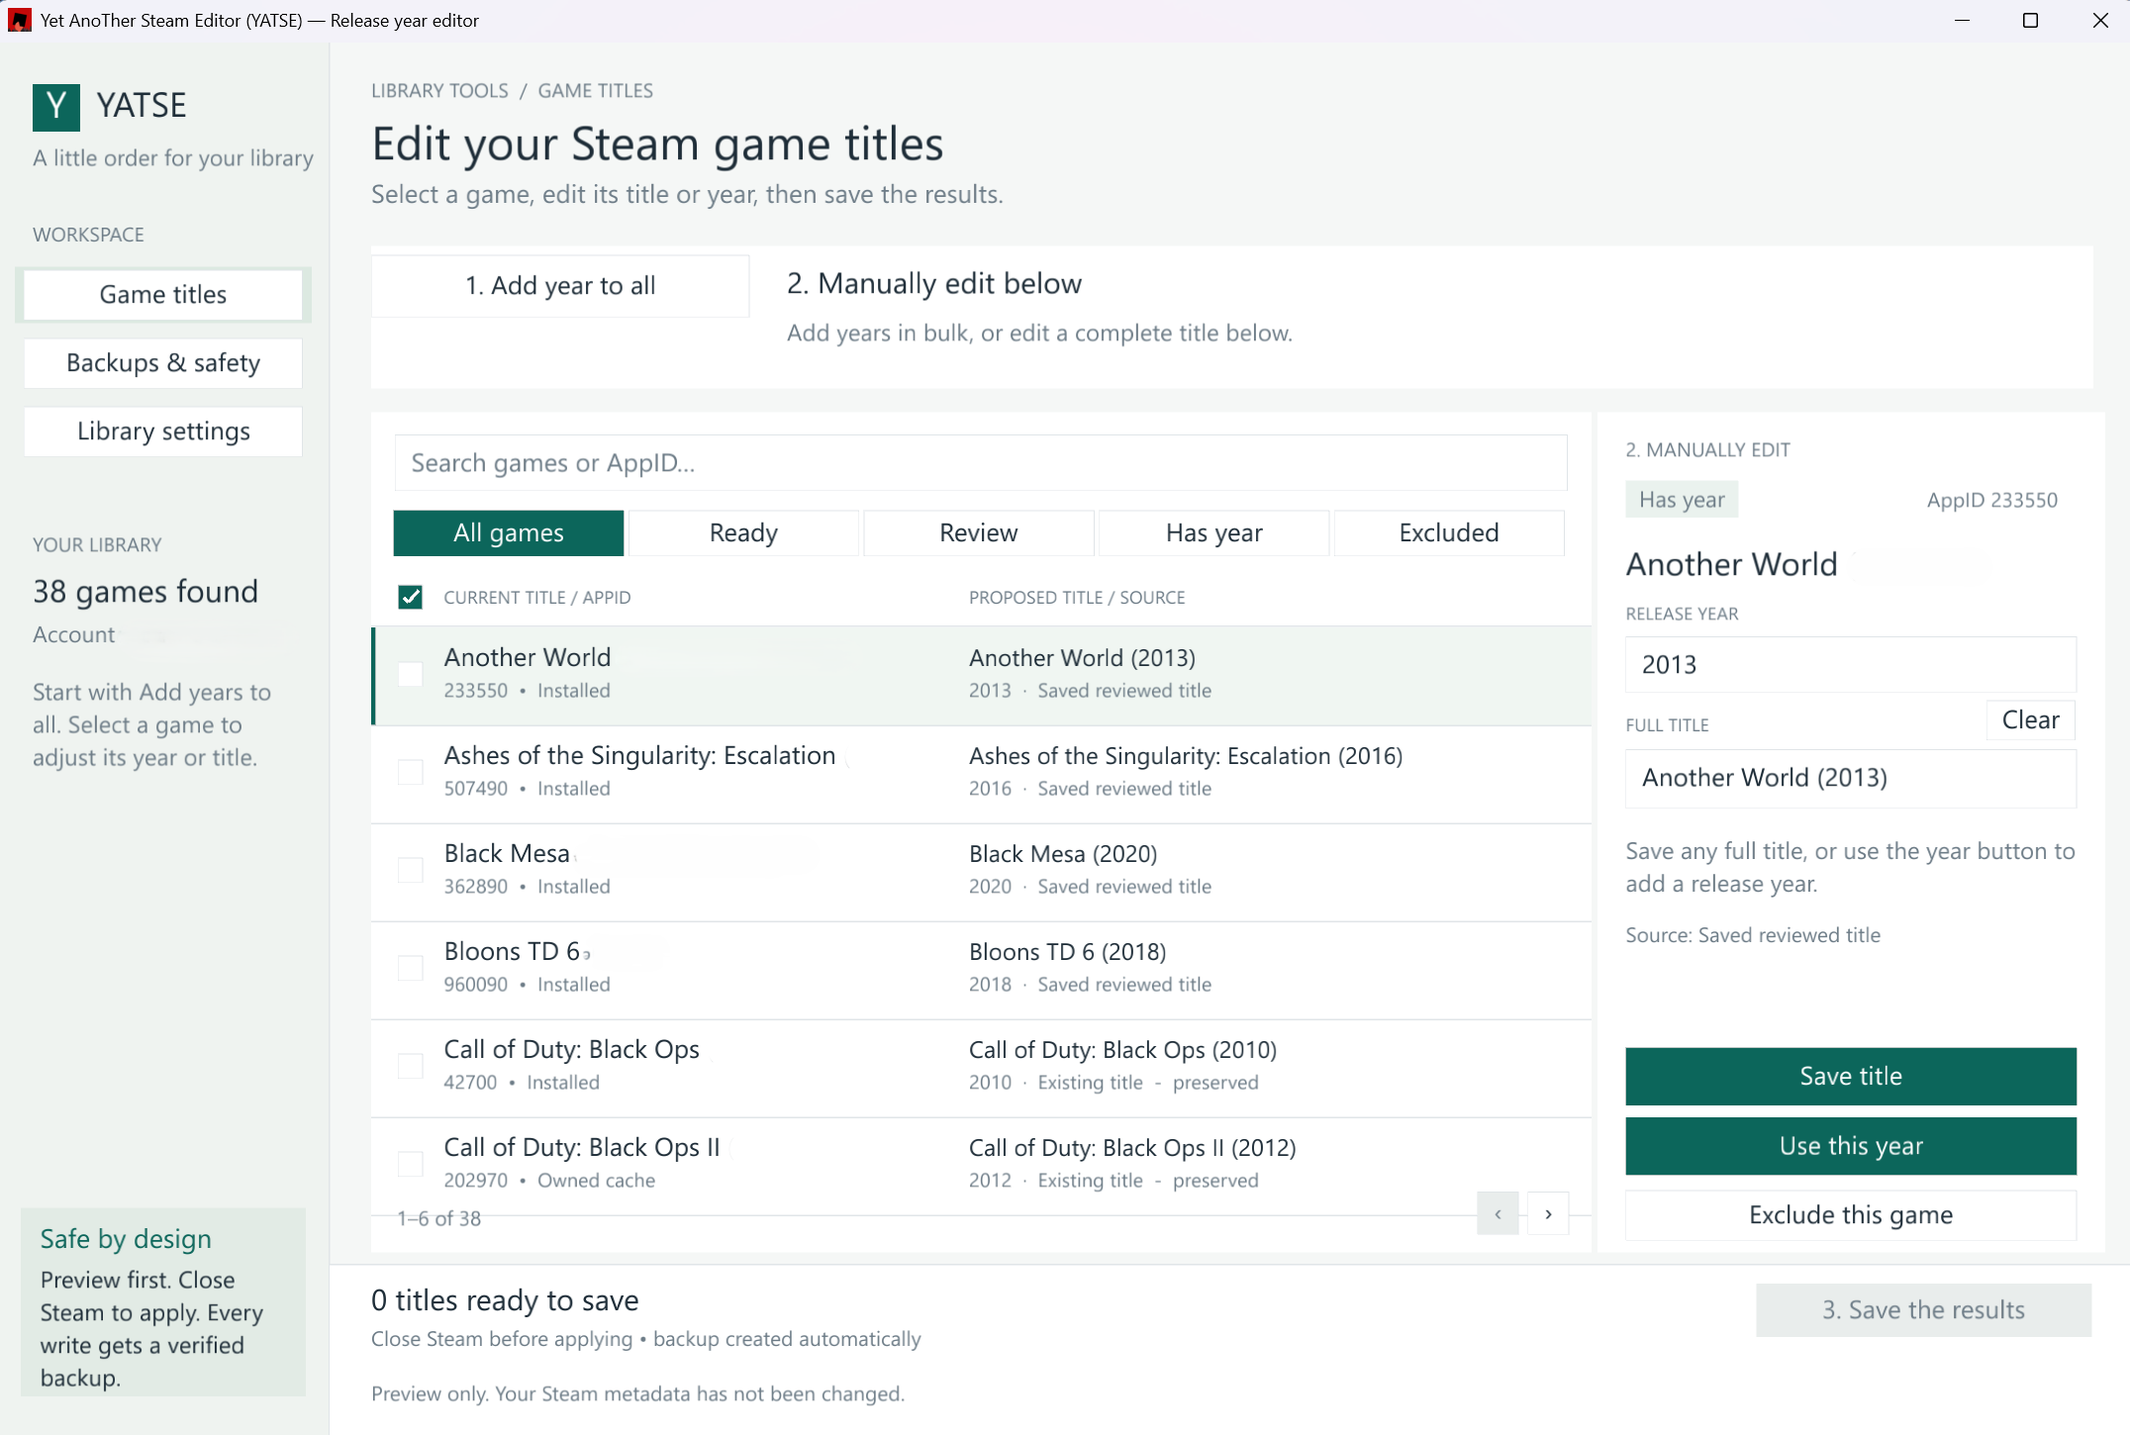
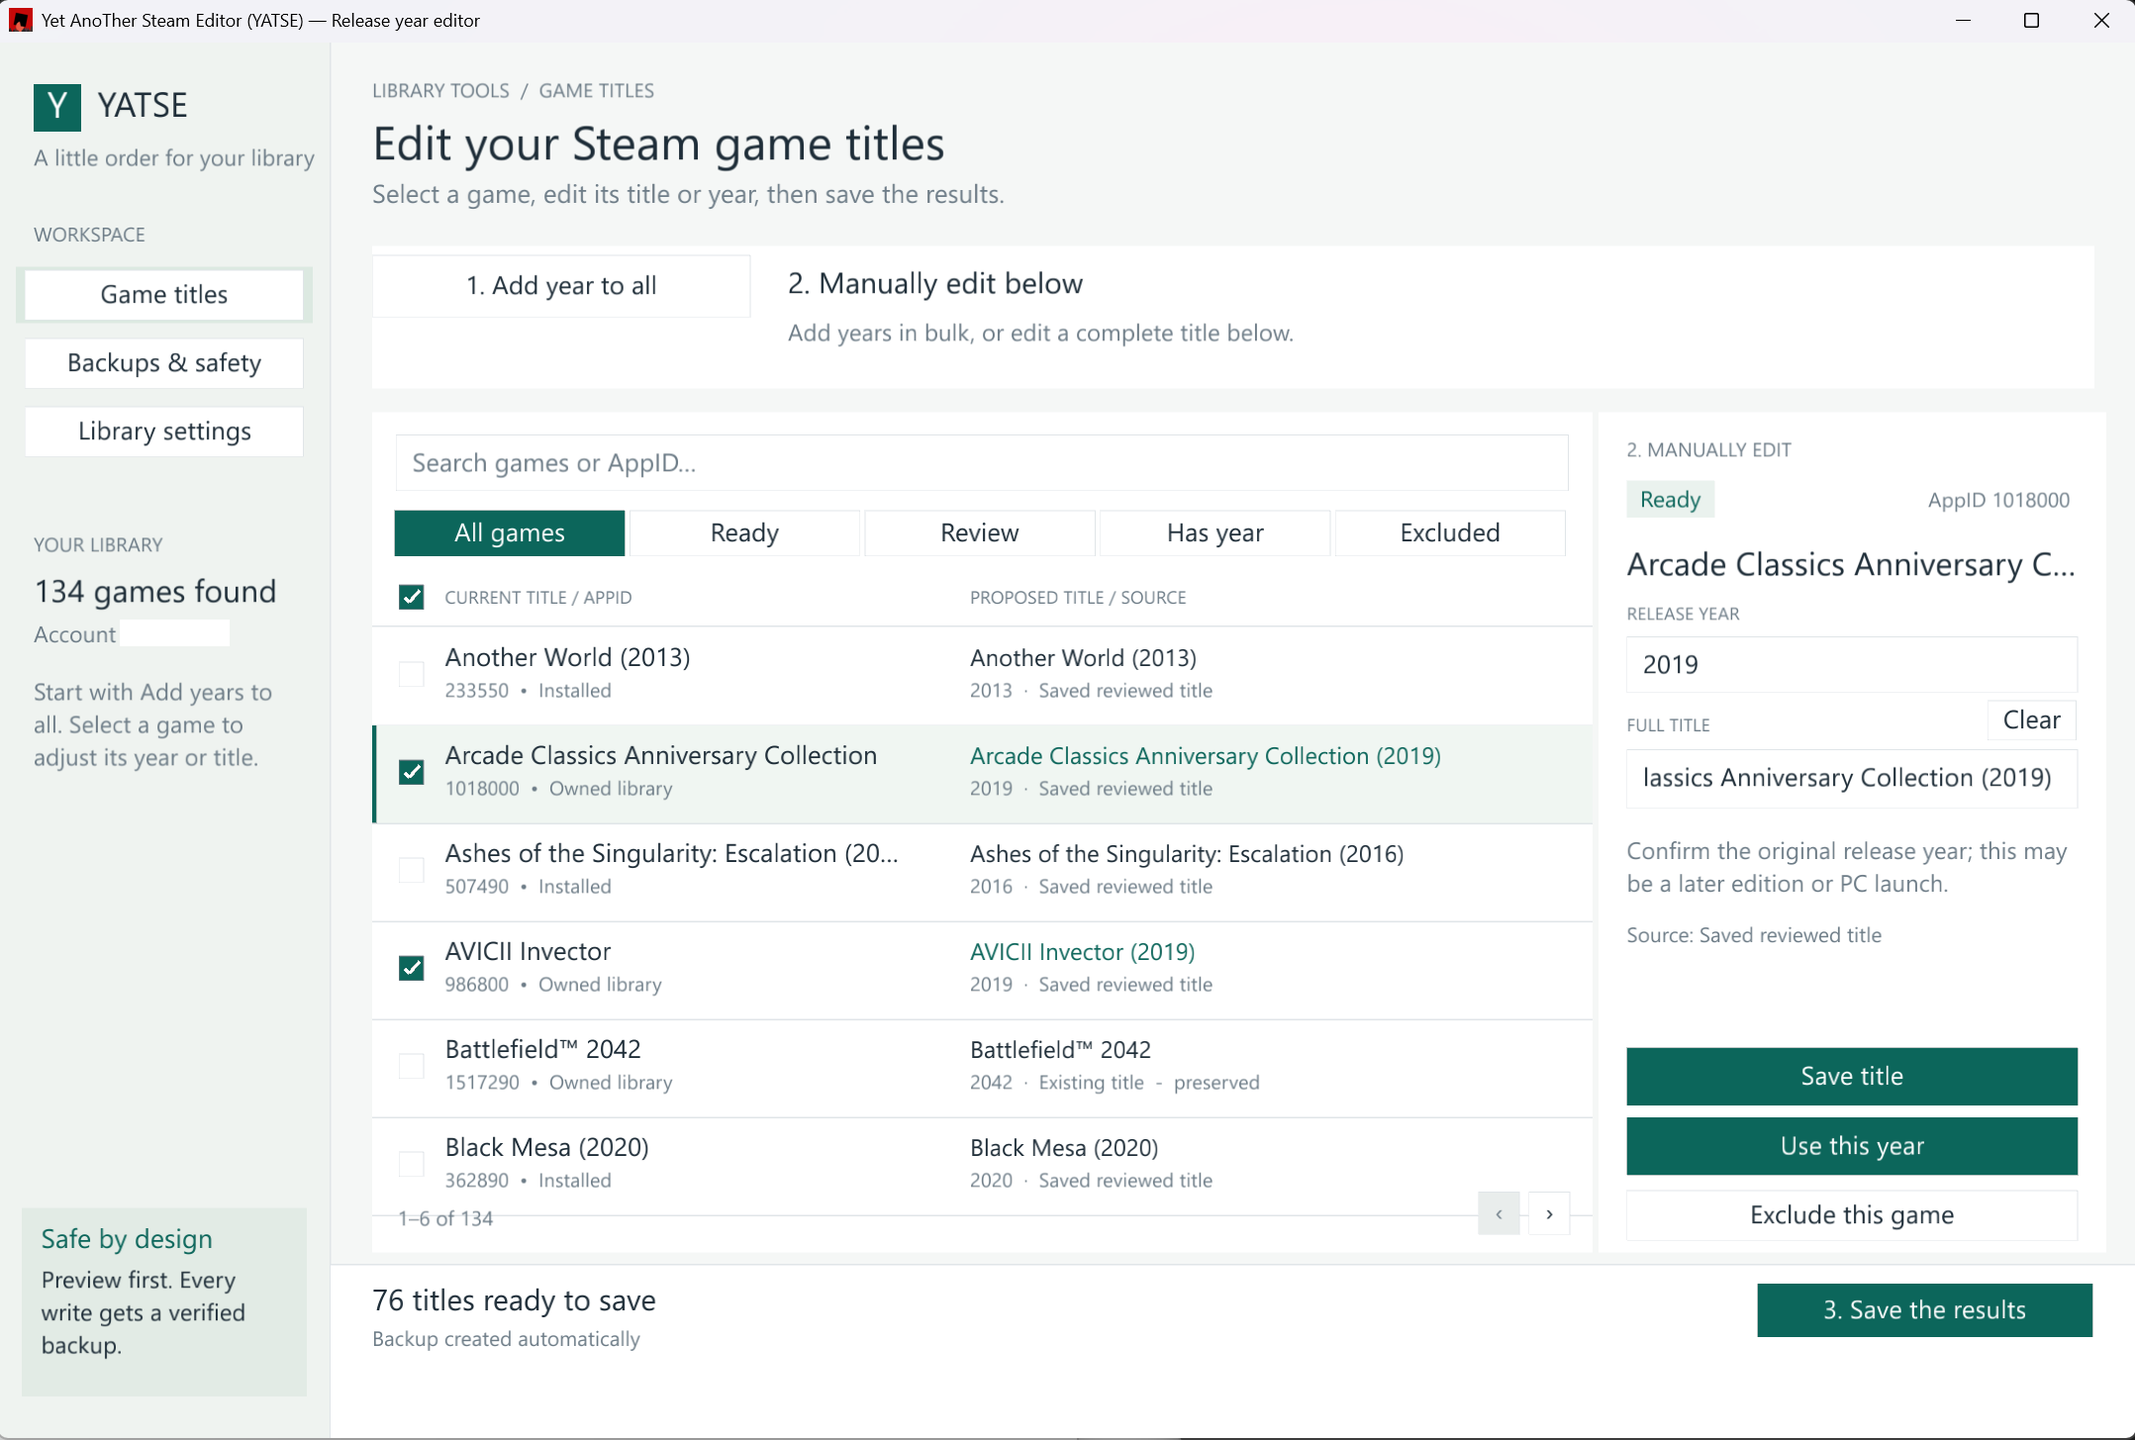
detect all owned steam games

diff --git a/src/steam_ownership.rs b/src/steam_ownership.rs
@@ -1,0 +1,103 @@
+//! Read-only ownership queries through the signed-in Steam client.
+//! ABI: ValveSoftware/Proton, steamworks_sdk_152/{isteamclient,isteamapps,isteamuser}.h.
+use std::{collections::BTreeSet, path::Path};
+
+#[cfg(all(windows, target_arch = "x86_64"))]
+pub fn query(root: &Path, account: &str, ids: &[u32]) -> Result<BTreeSet<u32>, String> {
+    use std::{collections::BTreeMap, ffi::c_void, os::windows::ffi::OsStrExt, sync::{Mutex, OnceLock}};
+    type Object = *mut c_void;
+    #[link(name = "kernel32")]
+    extern "system" {
+        fn LoadLibraryExW(path: *const u16, file: Object, flags: u32) -> Object;
+        fn GetProcAddress(module: Object, name: *const u8) -> Object;
+    }
+    // Steam interfaces are not thread safe. Keep DLLs loaded for the process
+    // lifetime because the client owns background threads and thread-local data.
+    static MODULES: OnceLock<Mutex<BTreeMap<std::path::PathBuf, usize>>> = OnceLock::new();
+    let mut modules = MODULES.get_or_init(|| Mutex::new(BTreeMap::new()))
+        .lock().map_err(|_| "Steam ownership reader stopped")?;
+    let path = root.join("steamclient64.dll").canonicalize()
+        .map_err(|_| "Steam client DLL not found")?;
+    let module = if let Some(module) = modules.get(&path) {
+        *module as Object
+    } else {
+        let wide: Vec<u16> = path.as_os_str().encode_wide().chain(Some(0)).collect();
+        // Resolve dependencies only beside Steam's DLL and in default DLL directories.
+        let module = unsafe { LoadLibraryExW(wide.as_ptr(), std::ptr::null_mut(), 0x1100) };
+        if module.is_null() { return Err("Could not load Steam's ownership interface".into()); }
+        modules.insert(path, module as usize);
+        module
+    };
+    // These slots are fixed by the explicitly requested interface versions.
+    unsafe fn slot(object: Object, index: usize) -> Object {
+        *(*(object as *const *const Object)).add(index)
+    }
+    struct Session { client: Object, pipe: i32, user: i32 }
+    impl Drop for Session {
+        fn drop(&mut self) {
+            unsafe {
+                if self.user != 0 {
+                    let release: unsafe extern "C" fn(Object, i32, i32) = std::mem::transmute(slot(self.client, 4));
+                    release(self.client, self.pipe, self.user);
+                }
+                let release: unsafe extern "C" fn(Object, i32) -> bool = std::mem::transmute(slot(self.client, 1));
+                release(self.client, self.pipe);
+            }
+        }
+    }
+    unsafe {
+        let export = GetProcAddress(module, b"CreateInterface\0".as_ptr());
+        if export.is_null() { return Err("Steam interface factory unavailable".into()); }
+        let factory: unsafe extern "C" fn(*const u8, Object) -> Object = std::mem::transmute(export);
+        let client = factory(b"SteamClient020\0".as_ptr(), std::ptr::null_mut());
+        if client.is_null() { return Err("SteamClient020 is unavailable".into()); }
+        let create: unsafe extern "C" fn(Object) -> i32 = std::mem::transmute(slot(client, 0));
+        let pipe = create(client);
+        if pipe == 0 { return Err("Open Steam and sign in to refresh ownership".into()); }
+        let mut session = Session { client, pipe, user: 0 };
+        let connect: unsafe extern "C" fn(Object, i32) -> i32 = std::mem::transmute(slot(client, 2));
+        session.user = connect(client, pipe);
+        if session.user == 0 { return Err("Steam has no signed-in user".into()); }
+        type Interface = unsafe extern "C" fn(Object, i32, i32, *const u8) -> Object;
+        let get_user: Interface = std::mem::transmute(slot(client, 5));
+        let user = get_user(client, session.user, pipe, b"SteamUser021\0".as_ptr());
+        if user.is_null() { return Err("Steam user interface unavailable".into()); }
+        let logged_on: unsafe extern "C" fn(Object) -> bool = std::mem::transmute(slot(user, 1));
+        if !logged_on(user) { return Err("Sign in to Steam before refreshing ownership".into()); }
+        // MSVC returns the CSteamID class through a hidden output pointer,
+        // rather than as a plain u64. Check account identity before any queries.
+        let get_id: unsafe extern "C" fn(Object, *mut u64) -> Object = std::mem::transmute(slot(user, 2));
+        let mut steam_id = 0u64;
+        get_id(user, &mut steam_id);
+        validate_account(account, steam_id)?;
+        let get_apps: Interface = std::mem::transmute(slot(client, 15));
+        let apps = get_apps(client, session.user, pipe, b"STEAMAPPS_INTERFACE_VERSION008\0".as_ptr());
+        if apps.is_null() { return Err("Steam apps interface unavailable".into()); }
+        let subscribed: unsafe extern "C" fn(Object, u32) -> bool = std::mem::transmute(slot(apps, 6));
+        Ok(ids.iter().copied().filter(|id| subscribed(apps, *id)).collect())
+    }
+}
+
+fn validate_account(account: &str, steam_id: u64) -> Result<(), String> {
+    if account.parse::<u32>().ok() != Some(steam_id as u32) || steam_id == 0 {
+        return Err("Steam is signed in to a different account; ownership was not imported".into());
+    }
+    Ok(())
+}
+
+#[cfg(not(all(windows, target_arch = "x86_64")))]
+pub fn query(_: &Path, _: &str, _: &[u32]) -> Result<BTreeSet<u32>, String> {
+    Err("Live Steam ownership requires 64-bit Windows".into())
+}
+
+#[cfg(test)]
+mod tests {
+    use super::*;
+    #[test]
+    fn ownership_must_belong_to_selected_account() {
+        assert!(validate_account("123", 76561197960265728 + 123).is_ok());
+        assert!(validate_account("456", 76561197960265728 + 123).is_err());
+        assert!(validate_account("0", 0).is_err());
+        assert!(validate_account("invalid", 76561197960265728 + 123).is_err());
+    }
+}

diff --git a/src/library.rs b/src/library.rs
@@ -261,14 +261,38 @@ pub fn discover_progress(root: &Path, account: &str, dir: &Path, progress: impl 
             }
         }
     }
-    let online: BTreeMap<u32, String> = fs::read(dir.join(format!("owned-{account}.json")))
+    let snapshot: Option<BTreeMap<u32, String>> = fs::read(dir.join(format!("owned-{account}.json")))
         .ok()
-        .and_then(|b| serde_json::from_slice(&b).ok())
-        .unwrap_or_default();
-    owned.extend(online.keys().copied());
-    let ids: BTreeSet<u32> = owned.union(&installed).copied().collect();
+        .and_then(|b| serde_json::from_slice(&b).ok());
+    let mut verified = snapshot.is_some();
+    let mut online = snapshot.unwrap_or_default();
+    if verified { owned = online.keys().copied().collect(); }
     progress(60, "Reading Steam title database");
     let db = Database::read(&root.join("appcache/appinfo.vdf"))?;
+    let mut ownership_warning = String::new();
+    if root.join("steamclient64.dll").is_file() && crate::steam_guard::check().unwrap_or(false) {
+        progress(70, "Checking ownership with signed-in Steam");
+        let candidates: BTreeSet<u32> = db.entries.iter().map(|e| e.id)
+            .chain(owned.iter().copied()).chain(installed.iter().copied()).collect();
+        match crate::steam_ownership::query(root, &account, &candidates.into_iter().collect::<Vec<_>>()) {
+            Ok(current) => {
+                online = current.iter().map(|id| {
+                    let name = db.entries.iter().find(|e| e.id == *id)
+                        .map(|e| e.root.text(&["appinfo", "common", "name"]))
+                        .unwrap_or_else(|| online.get(id).cloned().unwrap_or_default());
+                    (*id, name)
+                }).collect();
+                fs::create_dir_all(dir).map_err(|e| e.to_string())?;
+                write_json(&dir.join(format!("owned-{account}.json")), &online)?;
+                owned = current;
+                verified = true;
+            }
+            Err(e) => ownership_warning = format!(" Ownership refresh failed: {e}."),
+        }
+    }
+    // Shared metadata supplies titles, never ownership. Verified account
+    // records supersede stale caches and installed leftovers.
+    let ids: BTreeSet<u32> = if verified { owned.clone() } else { owned.union(&installed).copied().collect() };
     progress(85, "Preparing titles and saved edits");
     let saved = state(dir);
     let mut rows = vec![];
@@ -280,7 +304,8 @@ pub fn discover_progress(root: &Path, account: &str, dir: &Path, progress: impl 
         let typ = entry
             .map(|e| e.root.text(&["appinfo", "common", "type"]))
             .unwrap_or_default();
-        if !typ.is_empty() && !typ.eq_ignore_ascii_case("game") {
+        if (entry.is_some() && !typ.eq_ignore_ascii_case("game"))
+            || (entry.is_none() && online.get(&id).is_none_or(|name| name.is_empty())) {
             continue;
         }
         let old = if name.is_empty() {
@@ -357,7 +382,12 @@ pub fn discover_progress(root: &Path, account: &str, dir: &Path, progress: impl 
     }
     rows.sort_by_key(|r| r.old.to_lowercase());
     progress(100, "Library ready");
-    Ok(Library{path:root.into(),account,rows,fingerprint:hash(&db.raw),coverage:format!("{} cached owned AppIDs + {} installed AppIDs. Uncached purchases may be absent; sign in and let Steam refresh your library.",owned.len(),installed.len())})
+    let coverage = if verified {
+        format!("{} games from verified account ownership. Open Steam before launching Yatse to refresh.{}", rows.len(), ownership_warning)
+    } else {
+        format!("{} games from incomplete local records. Open Steam, sign in, then restart Yatse to include missing purchases.{}", rows.len(), ownership_warning)
+    };
+    Ok(Library{path:root.into(),account,rows,fingerprint:hash(&db.raw),coverage})
 }
 pub fn classify(s: &str) -> String {
     let s = s.to_lowercase();

diff --git a/src/main.rs b/src/main.rs
@@ -2,6 +2,7 @@
 
 mod disk_worker;
 mod steam_guard;
+mod steam_ownership;
 mod library;
 mod metadata;
 
@@ -268,7 +269,7 @@ fn main() {
         match discover(&root, &account, &data) {
             Ok(l) => {
                 println!("{}\n{} games", l.coverage, l.rows.len());
-                for r in l.rows.iter().take(12) {
+                for r in &l.rows {
                     println!(
                         "{} | {} | {:?} | {} | {}",
                         r.id,
@@ -394,7 +395,6 @@ async fn ui_main() {
         background_window();
     }
     let mut steam_monitor = steam_guard::Monitor::new();
-    wait_for_steam(&mut steam_monitor).await;
     let mut lib = load_library(root.clone(), account.clone(), data.clone()).await.unwrap_or_else(|e| Library {
         path: root.clone(),
         account: account.clone(),
@@ -402,7 +402,15 @@ async fn ui_main() {
         fingerprint: String::new(),
         coverage: e,
     });
-    let mut status = "Preview only. Your Steam metadata has not been changed.".to_string();
+    // Capture signed-in ownership before asking Steam to close for safe editing.
+    let steam_was_running = steam_guard::check().unwrap_or(true);
+    wait_for_steam(&mut steam_monitor).await;
+    if steam_was_running {
+        if let Ok(refreshed) = load_library(root.clone(), account.clone(), data.clone()).await {
+            lib = refreshed;
+        }
+    }
+    let mut status = String::new();
     let mut search = String::new();
     let mut tab = 0;
     let mut offset = 0usize;
@@ -576,7 +584,7 @@ async fn ui_main() {
         panel(16., h - 155., 192., 127., Color::from_hex(0xe2ebe5));
         txt("Safe by design", 29., h - 128., 18., TEAL);
         wrap(
-            "Preview first. Close Steam to apply. Every write gets a verified backup.",
+            "Preview first. Every write gets a verified backup.",
             29.,
             h - 101.,
             162.,
@@ -702,7 +710,7 @@ async fn ui_main() {
                 16.,
                 MUTED,
             );
-            wrap("Ownership comes from this account's local library cache, plus installed manifests across all library folders. Uncached or never-played purchases may be absent. Open Steam online and refresh your library before scanning. Multiple accounts are kept separate.",x+24.,451.,content-120.,18.,MUTED);
+            wrap("Open Steam and sign in before launching Yatse to refresh ownership automatically. Close Steam when prompted to edit safely. Verified ownership is saved for offline use; Web API verification below is optional.",x+24.,451.,content-120.,18.,MUTED);
             if button(
                 "Load this library",
                 Rect::new(x + 24., 540., 190., 43.),
@@ -903,7 +911,7 @@ async fn ui_main() {
                         if r.installed {
                             "Installed"
                         } else {
-                            "Owned cache"
+                            "Owned library"
                         }
                     ),
                     a,
@@ -1131,7 +1139,7 @@ async fn ui_main() {
             INK,
         );
         txt(
-            "Close Steam before applying • backup created automatically",
+            "Backup created automatically",
             x,
             h - 62.,
             14.,

diff --git a/src/tests.rs b/src/tests.rs
@@ -1,6 +1,47 @@
 use crate::{append_year, library::*, metadata::*, suffix_year};
 use serde_json::{json, Value};
 use std::{collections::BTreeMap, fs, path::Path};
+#[test]
+fn discovery_excludes_unowned_metadata_and_preserves_owned_edits() {
+    let root = std::env::temp_dir().join(format!(
+        "yatse-discovery-regression-{}", std::process::id()
+    ));
+    fs::create_dir_all(root.join("appcache")).unwrap();
+    fs::create_dir_all(root.join("userdata/123/config/librarycache")).unwrap();
+    fs::write(root.join("appcache/appinfo.vdf"), fixture_bytes()).unwrap();
+    let settings = root.join("settings");
+    fs::create_dir_all(&settings).unwrap();
+    // AppID 10 exists in appinfo but is not owned. AppID 20 is a verified
+    // purchase missing from the partial friends cache.
+    fs::write(settings.join("owned-123.json"), br#"{"20":"Same name"}"#).unwrap();
+    // Stale ownership and installed leftovers must not override verification.
+    fs::write(root.join("userdata/123/config/librarycache/10.json"), br#"[["friends",{"data":{"your_info":{"owned":true}}}]]"#).unwrap();
+    fs::create_dir_all(root.join("steamapps")).unwrap();
+    fs::write(root.join("steamapps/appmanifest_10.acf"), "").unwrap();
+    let lib = discover(&root, "123", &settings).unwrap();
+    assert_eq!(
+        lib.rows.iter().map(|r| r.id).collect::<Vec<_>>(),
+        vec![20]
+    );
+    let mut rows = lib.rows;
+    let row = rows.iter_mut().find(|r| r.id == 20).unwrap();
+    row.proposed = append_year(&row.old, 2009);
+    row.year = Some(2009);
+    row.approved = true;
+    row.selected = true;
+    assert!(row.ready());
+    save(&settings, &rows).unwrap();
+    let reloaded = discover(&root, "123", &settings).unwrap();
+    let row = reloaded.rows.iter().find(|r| r.id == 20).unwrap();
+    assert_eq!(row.old, "Same name");
+    assert_eq!(row.proposed, "Same name (2009)");
+    assert!(row.ready());
+    fs::write(settings.join("owned-123.json"), b"{}").unwrap();
+    assert!(discover(&root, "123", &settings).unwrap().rows.is_empty());
+    fs::remove_file(settings.join("owned-123.json")).unwrap();
+    assert_eq!(discover(&root, "123", &settings).unwrap().rows[0].id, 10);
+    fs::remove_dir_all(root).unwrap();
+}
 pub fn run(root: &Path, dir: &Path) -> Value {
     let mut steps = vec![];
     let mut check = |step: &str, passed: bool, detail: String| {

diff --git a/README.md b/README.md
@@ -31,6 +31,11 @@ Once the titles are updated, your Steam library becomes easier to browse. Releas
 
 ![Steam library after using YATSE](assets/steam_library_after_yatse.png)
 
+
+Yatse comes with Steam running detection and with Steam metadata change detection.
+
+![Steam running detected](assets/yatse_steam_running.png)
+
 ## Download & usage
 
 Download the Windows x64 executable from [GitHub Releases](https://github.com/bkersbergen/yatse/releases).
